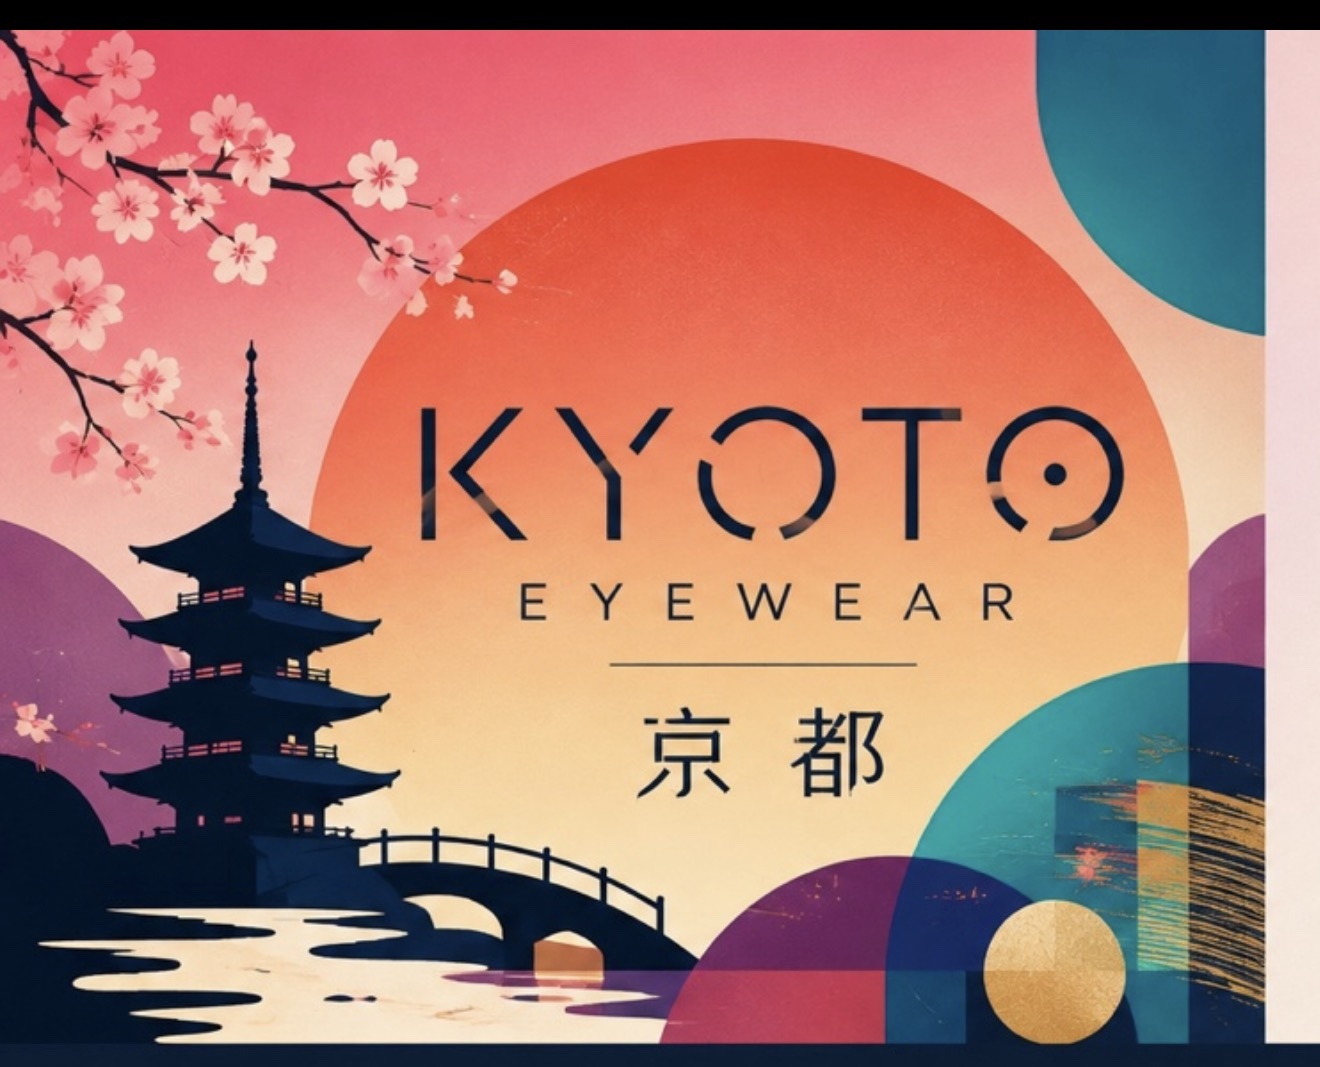
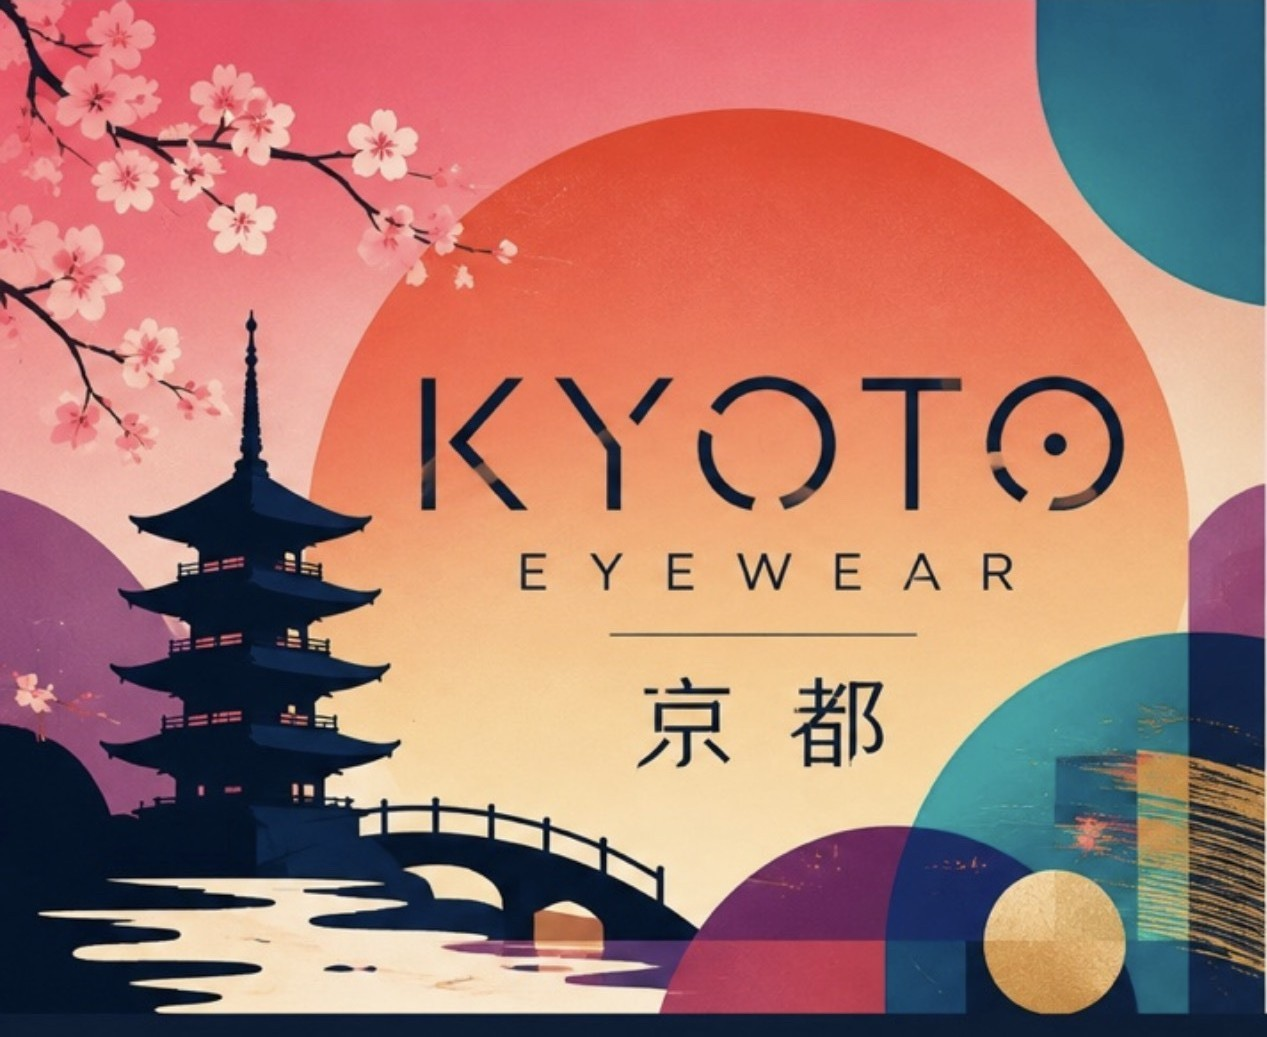
Fix phone-test issues: crop hero margins, hide sunglasses (launch flag), FSA/HSA info sheet, drop services see-all, complete login/signup flow, fix color-key bug

diff --git a/src/pages/login/index.vue b/src/pages/login/index.vue
@@ -2,38 +2,68 @@
   <view class="page-pad login">
     <KyotoHeader back />
     <KyotoWordmark :height="24" style="margin:34rpx 0 30rpx" />
-    <text class="h1">{{ $t('auth.title') }}</text>
-    <text class="sub" style="margin:10rpx 0 34rpx;display:block">{{ $t('auth.subtitle') }}</text>
+    <text class="h1">{{ mode==='signin' ? $t('auth.title') : $t('auth.signupTitle') }}</text>
+    <text class="sub" style="margin:10rpx 0 34rpx;display:block">{{ mode==='signin' ? $t('auth.subtitle') : $t('auth.signupSubtitle') }}</text>
+
+    <view v-if="mode==='signup'" class="field"><text class="lb">{{ $t('auth.name') }}</text>
+      <input class="in" type="text" v-model="name" :placeholder="$t('auth.namePh')" /></view>
     <view class="field"><text class="lb">{{ $t('auth.email') }}</text>
       <input class="in" type="text" v-model="email" placeholder="you@example.com" /></view>
     <view class="field"><text class="lb">{{ $t('auth.password') }}</text>
       <input class="in" password v-model="pw" placeholder="••••••••" /></view>
-    <text class="forgot">{{ $t('auth.forgot') }}</text>
-    <KyotoButton variant="pink" :loading="busy" @click="doSignIn('email')">{{ $t('auth.signIn') }}</KyotoButton>
+    <view v-if="mode==='signup'" class="field"><text class="lb">{{ $t('auth.confirmPw') }}</text>
+      <input class="in" password v-model="pw2" placeholder="••••••••" /></view>
+
+    <text v-if="mode==='signin'" class="forgot" @click="forgotPw">{{ $t('auth.forgot') }}</text>
+    <KyotoButton variant="pink" :loading="busy" @click="submit">
+      {{ mode==='signin' ? $t('auth.signIn') : $t('auth.signUp') }}</KyotoButton>
+
     <text class="or">{{ $t('auth.orWith') }}</text>
     <view class="social">
-      <view class="sb" @click="doSignIn('apple')"> {{ $t('auth.apple') }}</view>
-      <view class="sb" @click="doSignIn('google')">G {{ $t('auth.google') }}</view>
-      <view class="sb" @click="doSignIn('xhs')">📕 {{ $t('auth.xhs') }}</view>
+      <view class="sb" @click="socialSoon">{{ $t('auth.apple') }}</view>
+      <view class="sb" @click="socialSoon">G {{ $t('auth.google') }}</view>
+      <view class="sb" @click="socialSoon">📕 {{ $t('auth.xhs') }}</view>
     </view>
-    <text class="create">{{ $t('auth.create') }}</text>
+    <text class="create" @click="mode = mode==='signin' ? 'signup' : 'signin'">
+      {{ mode==='signin' ? $t('auth.create') : $t('auth.switchToSignin') }}</text>
     <text class="mock">{{ $t('auth.mockNote') }}</text>
   </view>
 </template>
 <script setup lang="ts">
 import { ref } from 'vue';
+import { useI18n } from 'vue-i18n';
 import KyotoHeader from '@/components/KyotoHeader.vue';
 import KyotoWordmark from '@/components/KyotoWordmark.vue';
 import KyotoButton from '@/components/KyotoButton.vue';
 import { useUserStore } from '@/stores/user';
-const email = ref(''); const pw = ref(''); const busy = ref(false);
+const { t } = useI18n();
+const mode = ref<'signin'|'signup'>('signin');
+const name = ref(''); const email = ref(''); const pw = ref(''); const pw2 = ref('');
+const busy = ref(false);
 const user = useUserStore();
-async function doSignIn(p: any) {
-  busy.value = true;
-  await user.signIn(p, { email: email.value, password: pw.value });
-  busy.value = false;
-  uni.reLaunch({ url: '/pages/home/index' });
+const emailOk = (v: string) => /^[^\s@]+@[^\s@]+\.[^\s@]+$/.test(v.trim());
+const fail = (msg: string) => { uni.showToast({ title: msg, icon: 'none' }); return false; };
+function validate(): boolean {
+  if (mode.value === 'signup' && !name.value.trim()) return fail(t('auth.errName'));
+  if (!emailOk(email.value)) return fail(t('auth.errEmail'));
+  if (!pw.value) return fail(t('auth.errPwEmpty'));
+  if (pw.value.length < 6) return fail(t('auth.errPwShort'));
+  if (mode.value === 'signup' && pw.value !== pw2.value) return fail(t('auth.errPwMatch'));
+  return true;
 }
+async function submit() {
+  if (!validate()) return;
+  busy.value = true;
+  const r = await user.signIn('email', { email: email.value.trim(), password: pw.value, name: name.value.trim() });
+  busy.value = false;
+  if (r.ok) uni.reLaunch({ url: '/pages/home/index' });
+  else fail(t('common.error'));
+}
+function forgotPw() {
+  if (!emailOk(email.value)) return fail(t('auth.errEmail'));
+  uni.showToast({ title: t('auth.forgotSent'), icon: 'none' });
+}
+function socialSoon() { uni.showToast({ title: t('auth.socialSoon'), icon: 'none' }); }
 </script>
 <style lang="scss" scoped>
 .field{display:flex;flex-direction:column;gap:10rpx;margin-bottom:24rpx}
@@ -43,6 +73,6 @@ async function doSignIn(p: any) {
 .or{display:block;text-align:center;font-size:$fs-xs;color:$muted;margin:30rpx 0 16rpx}
 .social{display:flex;gap:16rpx}
 .sb{flex:1;border:1rpx solid $line-strong;border-radius:$r-sm;padding:20rpx 10rpx;font-size:$fs-xs;font-weight:$fw-med;background:$card;color:$ink;display:flex;align-items:center;justify-content:center;gap:8rpx;min-height:78rpx;text-align:center;line-height:1.3}
-.create{display:block;text-align:center;font-size:$fs-sm;color:$muted;margin-top:36rpx}
+.create{display:block;text-align:center;font-size:$fs-sm;color:$ink;font-weight:$fw-semi;margin-top:36rpx;text-decoration:underline}
 .mock{display:block;text-align:center;font-size:$fs-xs;color:$muted;opacity:.6;margin-top:14rpx}
 </style>

diff --git a/src/pages/home/index.vue b/src/pages/home/index.vue
@@ -59,11 +59,10 @@
         </view>
       </view>
 
-      <!-- QUICK SERVICES -->
+      <!-- QUICK SERVICES：服务项已全部展示，不需要“查看全部”（之前误跳到镜框页） -->
       <view class="sec">
         <view class="sechd">
           <text class="h2">{{ $t('home.servicesTitle') }}</text>
-          <text class="all" @click="nav('/pages/frames/index', true)">{{ $t('common.seeAll') }} ›</text>
         </view>
         <view class="qgrid">
           <view v-for="q in quick" :key="q.k" class="qcard" @click="q.go()">
@@ -107,14 +106,24 @@
     </view>
 
     <KyotoBottomNav active="home" />
+
+    <!-- FSA / HSA 说明弹窗 -->
+    <view v-if="showFsa" class="sheet-mask" @click="showFsa = false">
+      <view class="sheet" @click.stop>
+        <text class="sheet-t">{{ $t('home.fsaSheet.title') }}</text>
+        <text class="sheet-b">{{ $t('home.fsaSheet.body') }}</text>
+        <KyotoButton variant="night" @click="showFsa = false">{{ $t('common.done') }}</KyotoButton>
+      </view>
+    </view>
   </view>
 </template>
 
 <script setup lang="ts">
-import { computed } from 'vue';
+import { computed, ref } from 'vue';
 import { onShow } from '@dcloudio/uni-app';
 
 import KyotoBottomNav from '@/components/KyotoBottomNav.vue';
+import KyotoButton from '@/components/KyotoButton.vue';
 import ProductCard from '@/components/ProductCard.vue';
 
 import { useProductStore } from '@/stores/product';
@@ -170,13 +179,13 @@ const openMenu = () => {
 onShow(() => products.ensure());
 
 const best = computed(() =>
-  products.frames.filter(
+  products.sellable.filter(
     f => f.bestSeller || ['gion', 'tasogare'].includes(f.id)
   )
 );
 
 const news = computed(() =>
-  products.frames.filter(f => f.newArrival).slice(0, 4)
+  products.sellable.filter(f => f.newArrival).slice(0, 4)
 );
 
 const nav = (url: string, relaunch = false) =>
@@ -222,9 +231,12 @@ const quick = [
   {
     k: 'fsa',
     icon: I('<rect x="3" y="5.5" width="18" height="13" rx="2.5"/><path d="M3 10h18M7 14.5h4"/>'),
-    go: () => uni.showToast({ title: 'FSA / HSA', icon: 'none' }),
+    go: () => { showFsa.value = true; },
   },
 ];
+
+/* FSA / HSA 说明弹窗 */
+const showFsa = ref(false);
 
 const showContactLenses = isContactLensAvailable();
 
@@ -354,4 +366,11 @@ const promoBg = `
 .psb{font-size:$fs-xs;line-height:1.5;opacity:.8}
 .pcta{align-self:flex-start;margin-top:12rpx;padding:12rpx 24rpx;color:#fff;
   background:$accent-strong;border-radius:$r-sm;font-size:$fs-xs;font-weight:$fw-semi}
+/* FSA / HSA 说明弹窗 */
+.sheet-mask{position:fixed;inset:0;background:rgba(20,27,61,.45);display:flex;
+  align-items:flex-end;justify-content:center;z-index:60}
+.sheet{width:100%;background:$card;border-radius:$r-lg $r-lg 0 0;padding:40rpx 36rpx 48rpx;
+  display:flex;flex-direction:column;gap:18rpx}
+.sheet-t{font-size:$fs-md;font-weight:$fw-semi;color:$ink}
+.sheet-b{font-size:$fs-sm;line-height:1.65;color:$ink;opacity:.82}
 </style>

diff --git a/src/i18n/es-US.ts b/src/i18n/es-US.ts
@@ -50,15 +50,23 @@ export default {
   welcome: { title:'Ve claro, mira más lejos.', slogan:'LENTES DE INSPIRACIÓN JAPONESA · HECHOS PARA TI',
     start:'Comenzar', login:'Ya tengo una cuenta', skip:'Ver primero' },
   auth: { title:'Bienvenido de nuevo', subtitle:'Inicia sesión para sincronizar tus recetas y pedidos.',
-    email:'Correo electrónico', password:'Contraseña', forgot:'¿Olvidaste tu contraseña?', signIn:'Iniciar sesión',
-    orWith:'o continúa con', apple:'Apple', google:'Google', xhs:'RED', create:'¿Nuevo aquí? Crea una cuenta',
-    mockNote:'Inicio de sesión de prueba (integración pendiente)' },
+    signupTitle:'Crea tu cuenta', signupSubtitle:'Guarda recetas, sigue pedidos y compra más rápido.',
+    name:'Nombre completo', namePh:'Tu nombre', email:'Correo electrónico', password:'Contraseña', confirmPw:'Confirmar contraseña',
+    forgot:'¿Olvidaste tu contraseña?', forgotSent:'Enlace enviado (modo demo)', signIn:'Iniciar sesión', signUp:'Crear cuenta',
+    orWith:'o continúa con', apple:'Apple', google:'Google', xhs:'RED',
+    create:'¿Nuevo aquí? Crea una cuenta', switchToSignin:'¿Ya tienes cuenta? Inicia sesión',
+    errName:'Ingresa tu nombre', errEmail:'Ingresa un correo electrónico válido', errPwEmpty:'Ingresa tu contraseña',
+    errPwShort:'La contraseña debe tener al menos 6 caracteres', errPwMatch:'Las contraseñas no coinciden',
+    socialSoon:'El inicio social llegará pronto',
+    mockNote:'Modo demo: las cuentas se guardan solo en este dispositivo' },
   home: { hero:{ eyebrow:'APERTURA · $79.99', title:'Monturas inspiradas en Kioto.',
       titleA:'Mira', titleB:'un futuro más brillante',
       subtitle:'Un par completo con graduación desde $79.99 (antes $89.99).', cta:'Comprar la colección',
       motto:'SEE BEYOND TODAY', slogan:'Ve con claridad, ve más lejos.', ctaTryOn:'Prueba virtual' },
     servicesTitle:'Servicios rápidos',
     services:{ shopEyeglasses:'Comprar gafas', virtualTryOn:'Probar en casa', uploadRx:'Subir receta', reorder:'Volver a pedir', fsa:'FSA / HSA' },
+    fsaSheet:{ title:'Pagar con FSA / HSA',
+      body:'FSA (cuenta de gastos flexibles) y HSA (cuenta de ahorros para la salud) son cuentas de beneficios antes de impuestos en EE. UU. Los anteojos recetados son un gasto médico elegible: paga directamente con tu tarjeta FSA/HSA al finalizar la compra, y el recibo sirve para el reembolso. Contáctanos si necesitas documentación.' },
     bestsellers:'Los más vendidos', newArrivals:'Novedades', newBadge:'NUEVO',
     subscription:{ title:'Lentes de contacto, cada mes.', subtitle:'Suscríbete y ahorra 15% en cada caja.', cta:'Ver planes' } },
   frames: { title:'Monturas', styles:'estilos', all:'Todo', optical:'Lentes ópticos', sun:'Gafas de sol',

diff --git a/src/i18n/en-US.ts b/src/i18n/en-US.ts
@@ -50,15 +50,23 @@ export default {
   welcome: { title:'See clearly, see further.', slogan:'JAPANESE-INSPIRED EYEWEAR · MADE FOR YOU',
     start:'Get started', login:'I already have an account', skip:'Browse first' },
   auth: { title:'Welcome back', subtitle:'Sign in to sync your prescriptions and orders.',
-    email:'Email', password:'Password', forgot:'Forgot password?', signIn:'Sign in',
-    orWith:'or continue with', apple:'Apple', google:'Google', xhs:'RED', create:'New here? Create an account',
-    mockNote:'Mock sign-in (provider integration pending)' },
+    signupTitle:'Create your account', signupSubtitle:'Save prescriptions, track orders, check out faster.',
+    name:'Full name', namePh:'Your name', email:'Email', password:'Password', confirmPw:'Confirm password',
+    forgot:'Forgot password?', forgotSent:'Reset link sent (demo mode)', signIn:'Sign in', signUp:'Create account',
+    orWith:'or continue with', apple:'Apple', google:'Google', xhs:'RED',
+    create:'New here? Create an account', switchToSignin:'Already have an account? Sign in',
+    errName:'Please enter your name', errEmail:'Please enter a valid email address', errPwEmpty:'Please enter your password',
+    errPwShort:'Password must be at least 6 characters', errPwMatch:'Passwords do not match',
+    socialSoon:'Social sign-in is coming soon',
+    mockNote:'Demo mode: accounts are stored on this device only' },
   home: { hero:{ eyebrow:'GRAND OPENING · $79.99', title:'Frames inspired by Kyoto.',
       titleA:'See a', titleB:'Brighter You',
       subtitle:'A complete pair of prescription glasses from $79.99 (reg. $89.99).', cta:'Shop the Collection',
       motto:'SEE BEYOND TODAY', slogan:'See clearly, see further.', ctaTryOn:'Virtual try-on' },
     servicesTitle:'Quick Services',
     services:{ shopEyeglasses:'Shop Eyeglasses', virtualTryOn:'Home Try-On', uploadRx:'Upload Prescription', reorder:'Reorder', fsa:'FSA / HSA' },
+    fsaSheet:{ title:'Paying with FSA / HSA',
+      body:'FSA (Flexible Spending Account) and HSA (Health Savings Account) are US pre-tax benefit accounts. Prescription eyewear is an eligible medical expense: pay directly with your FSA/HSA card at checkout, and your order receipt works for reimbursement. Contact support if you need documentation.' },
     bestsellers:'Bestsellers', newArrivals:'New arrivals', newBadge:'NEW',
     subscription:{ title:'Contacts, delivered monthly.', subtitle:'Subscribe and save 15% on every box.', cta:'Explore plans' } },
   frames: { title:'Frames', styles:'styles', all:'All', optical:'Eyeglasses', sun:'Sunglasses',

diff --git a/src/i18n/zh-CN.ts b/src/i18n/zh-CN.ts
@@ -50,15 +50,23 @@ export default {
   welcome: { title:'看得清楚,才看得见远方。', slogan:'日式美学眼镜 · 为你定制',
     start:'开始使用', login:'我已有账号', skip:'先逛逛' },
   auth: { title:'欢迎回来', subtitle:'登录后同步你的处方与订单。',
-    email:'邮箱', password:'密码', forgot:'忘记密码?', signIn:'登录',
-    orWith:'或使用以下方式', apple:'Apple', google:'Google', xhs:'小红书', create:'新用户?创建账号',
-    mockNote:'模拟登录(第三方登录待配置)' },
+    signupTitle:'创建账号', signupSubtitle:'保存处方、跟踪订单，结账更快。',
+    name:'姓名', namePh:'请输入姓名', email:'邮箱', password:'密码', confirmPw:'确认密码',
+    forgot:'忘记密码?', forgotSent:'重置链接已发送（演示模式）', signIn:'登录', signUp:'注册',
+    orWith:'或使用以下方式', apple:'Apple', google:'Google', xhs:'小红书',
+    create:'新用户？创建账号', switchToSignin:'已有账号？直接登录',
+    errName:'请输入姓名', errEmail:'请输入有效的邮箱地址', errPwEmpty:'请输入密码',
+    errPwShort:'密码至少 6 位', errPwMatch:'两次输入的密码不一致',
+    socialSoon:'第三方登录即将上线，敬请期待',
+    mockNote:'演示模式：账号仅保存在本机，正式版将接入服务器' },
   home: { hero:{ eyebrow:'开业限定 · $79.99', title:'灵感来自京都的镜框。',
       titleA:'京都眼镜', titleB:'灵感来自京都的镜框。',
       subtitle:'一副完整处方眼镜，从 $79.99 起（原价 $89.99）。', cta:'选购镜框',
       motto:'SEE BEYOND TODAY', slogan:'看得清楚，才看得见远方。', ctaTryOn:'虚拟试戴' },
     servicesTitle:'快捷服务',
     services:{ shopEyeglasses:'商店选购', virtualTryOn:'在家试戴', uploadRx:'上传处方', reorder:'再次购买', fsa:'FSA / HSA' },
+    fsaSheet:{ title:'FSA / HSA 支付说明',
+      body:'FSA（弹性支出账户）与 HSA（健康储蓄账户）是美国常见的税前医疗福利账户。处方眼镜属于合规医疗支出：结账时可直接用 FSA/HSA 卡支付，订单收据也可用于报销。如需相关凭证，可联系客服。' },
     bestsellers:'热卖', newArrivals:'新品上架', newBadge:'NEW',
     subscription:{ title:'隐形眼镜,按月送达。', subtitle:'订阅每盒立省 15%。', cta:'了解订阅' } },
   frames: { title:'镜框', styles:'款', all:'全部', optical:'光学镜', sun:'太阳镜',

diff --git a/src/pages/frames/index.vue b/src/pages/frames/index.vue
@@ -41,6 +41,7 @@ import { onShow } from '@dcloudio/uni-app';
 import { computed } from 'vue';
 import { useI18n } from 'vue-i18n';
 import { SERIES_INFO, SERIES_PRICE, OPENING_PROMO } from '@/config/pricing.config';
+import { isSunglassesAvailable } from '@/config/launch-availability.config';
 import type { FrameSeries, Locale } from '@/models';
 const products = useProductStore();
 const { locale } = useI18n();
@@ -52,10 +53,12 @@ const seriesChips = computed(() => (['essential', 'signature', 'atelier'] as Fra
 })));
 onShow(() => products.ensure());
 /* 分类与款式都写回同一个既有 filter 字段（store 的 filtered 同时匹配 category 与 frameShape），
-   因此这里只是把现有能力按母版的两行结构呈现，没有新增任何筛选逻辑。 */
-const cats = [
-  { k:'all', l:'frames.all' }, { k:'optical', l:'frames.optical' }, { k:'sun', l:'frames.sun' },
-];
+   因此这里只是把现有能力按母版的两行结构呈现，没有新增任何筛选逻辑。
+   太阳镜在发售期隐藏：tab 不渲染，store 的 sellable/filtered 也已过滤。 */
+const cats = computed(() => [
+  { k:'all', l:'frames.all' }, { k:'optical', l:'frames.optical' },
+  ...(isSunglassesAvailable() ? [{ k:'sun', l:'frames.sun' }] : []),
+]);
 const shapes = [
   { k:'round', l:'frames.round' }, { k:'square', l:'frames.square' }, { k:'cat-eye', l:'frames.catEye' },
 ];

diff --git a/src/components/ProductCard.vue b/src/components/ProductCard.vue
@@ -13,8 +13,8 @@
       </view>
       <view v-if="mode==='best'" class="meta">
         <view class="sws">
-          <view v-for="c in frame.colors" :key="c.code" class="sw" :class="{ on: selKey===c.code }"
-            :style="{ background: c.hex }" @click.stop="selKey = c.code"></view>
+          <view v-for="c in frame.colors" :key="c.key" class="sw" :class="{ on: selKey===c.key }"
+            :style="{ background: c.hex }" @click.stop="selKey = c.key"></view>
         </view>
         <view class="rate"><view class="star" v-html="icStar"></view><text>{{ rate }}</text></view>
       </view>
@@ -40,8 +40,8 @@ const loc = computed(() => locale.value as Locale);
 const fav = useFavoritesStore();
 const cart = useCartStore();
 
-const selKey = ref(props.frame.colors[0]?.code ?? '');
-const selHex = computed(() => props.frame.colors.find(c => c.code === selKey.value)?.hex ?? '#141B3D');
+const selKey = ref(props.frame.colors[0]?.key ?? '');
+const selHex = computed(() => props.frame.colors.find(c => c.key === selKey.value)?.hex ?? '#141B3D');
 const rate = computed(() => `${props.frame.rating.toFixed(1)} (${props.frame.reviewCount})`);
 const sellPrice = computed(() => frameSellPrice(props.frame));
 const onPromo = computed(() => frameOnPromo(props.frame));

diff --git a/src/pages/product/detail.vue b/src/pages/product/detail.vue
@@ -162,7 +162,7 @@ const seriesName = computed(()=>frame.value?SERIES_INFO[frame.value.series].name
 const seriesTagline = computed(()=>frame.value?SERIES_INFO[frame.value.series].tagline[loc.value]:'');
 const selColor = computed(()=>frame.value?.colors[colorIdx.value]??{hex:'#0D1B2A',key:'night',name:{'en-US':'Night','zh-CN':'夜空蓝','es-US':'Noche'}});
 const selSize = computed(()=>frame.value?.sizes[sizeIdx.value]??{key:'M',lensWidth:49,bridge:20,temple:145});
-const related = computed(()=>products.frames.filter(f=>f.id!==frameId.value).slice(0,4));
+const related = computed(()=>products.sellable.filter(f=>f.id!==frameId.value).slice(0,4));
 const accs = [{k:'ship',title:'product.shippingTitle',body:'product.shipping'},{k:'war',title:'product.warrantyTitle',body:'product.warranty'}];
 const reviews = [{who:'Maya K. · M · Night',body:'Light as air, the keyhole bridge never slips. Got the 1.60 blue-light — zero glare on calls.'},{who:'Wen L. · S · Sakura',body:'Bought for my daughter. Fit guide was spot on. Love the sakura pink.'}];
 function initSize(){ const f=products.byId(frameId.value); if(f){ const i=f.sizes.findIndex(x=>x.key===f.defaultSize); sizeIdx.value=i>=0?i:0; } }

diff --git a/src/stores/product.ts b/src/stores/product.ts
@@ -1,11 +1,17 @@
 import { defineStore } from 'pinia';
 import { ProductsApi } from '@/api/products.api';
+import { isSunglassesAvailable } from '@/config/launch-availability.config';
 import type { Frame } from '@/models';
+/** 发售期隐藏的品类在此统一过滤（数据保留，只是不对客户展示）。 */
+const sellableOnly = (frames: Frame[]): Frame[] =>
+  isSunglassesAvailable() ? frames : frames.filter(f => f.category !== 'sun');
 export const useProductStore = defineStore('product', {
   state: () => ({ frames: [] as Frame[], loaded: false, filter: 'all' as string }),
   getters: {
+    /** 客户可见的可售商品（已剔除发售期隐藏品类）。页面列表一律用它，不用 frames。 */
+    sellable(s): Frame[] { return sellableOnly(s.frames); },
     filtered(s): Frame[] {
-      return s.frames.filter(f => s.filter==='all' || f.category===s.filter || f.frameShape===s.filter || (f as any).series===s.filter);
+      return sellableOnly(s.frames).filter(f => s.filter==='all' || f.category===s.filter || f.frameShape===s.filter || (f as any).series===s.filter);
     },
   },
   actions: {

diff --git a/src/config/launch-availability.config.ts b/src/config/launch-availability.config.ts
@@ -20,6 +20,9 @@ export const LAUNCH_AVAILABILITY = {
   } as Record<PrescriptionType, boolean>,
   /** 隐形眼镜（含订阅）——初始版本不对客户开放 */
   contactLenses: false,
+  /** 太阳镜——初始版本不对客户开放（只卖光学镜）。
+   *  数据、筛选、试戴、详情页全部保留，日后把这里改回 true 即可恢复在售。 */
+  sunglasses: false,
 } as const;
 
 /** 该镜片类型当前是否对客户开放。 */
@@ -40,6 +43,9 @@ export const soleLensType = (): PrescriptionType | null =>
 
 /** 隐形眼镜入口（首页订阅横幅等）当前是否对客户开放。 */
 export const isContactLensAvailable = (): boolean => LAUNCH_AVAILABILITY.contactLenses;
+
+/** 太阳镜当前是否对客户开放（初始版本只卖光学镜）。 */
+export const isSunglassesAvailable = (): boolean => LAUNCH_AVAILABILITY.sunglasses;
 
 /**
  * 发售期对**已存在**的镜片类型取值做收敛。

diff --git a/src/services/AuthService.ts b/src/services/AuthService.ts
@@ -2,10 +2,12 @@
 export type AuthProvider = 'email' | 'apple' | 'google' | 'xhs';
 export interface AuthResult { ok: boolean; userId?: string; name?: string; mock: true }
 export const AuthService = {
-  async signIn(provider: AuthProvider, _payload?: { email?: string; password?: string }): Promise<AuthResult> {
+  async signIn(provider: AuthProvider, _payload?: { email?: string; password?: string; name?: string }): Promise<AuthResult> {
     // PRODUCTION-INTEGRATION-REQUIRED: replace with real provider SDK flows.
     await new Promise(r => setTimeout(r, 400));
-    return { ok: true, userId: 'mock-user', name: 'Anni', mock: true };
+    const email = (_payload?.email || '').trim();
+    const fallback = email ? email.split('@')[0] : 'Kyoto 会员';
+    return { ok: true, userId: 'mock-user', name: _payload?.name?.trim() || fallback, mock: true };
   },
   async signOut(): Promise<void> { /* mock */ },
 };

diff --git a/src/pages/tryon/index.vue b/src/pages/tryon/index.vue
@@ -133,7 +133,7 @@ const clamp = (v:number,a:number,b:number)=>Math.max(a,Math.min(b,v));
 type Step = 'pick'|'cal'|'try';
 const step = ref<Step>('pick');
 const photo = ref('');
-const frames = computed(()=>((store.frames||[]) as any[]).filter(f=>f.prescriptionCompatible));
+const frames = computed(()=>((store.sellable||[]) as any[]).filter(f=>f.prescriptionCompatible));
 const cur = ref<any>({}); const ci = ref(0);
 const curColor = computed(()=>cur.value.colors?.[ci.value] ?? {hex:'#141B3D'});
 const seriesPrice = (f:any)=>frameSellPrice(f);
